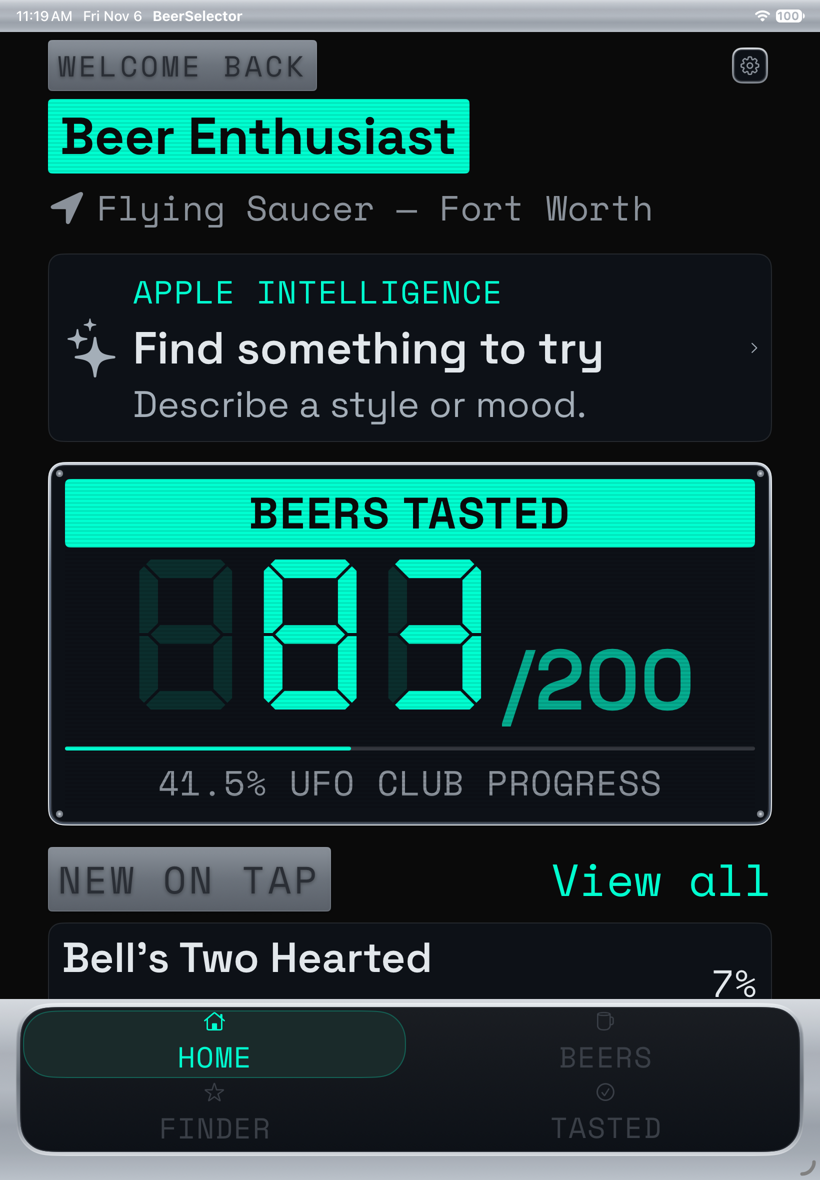
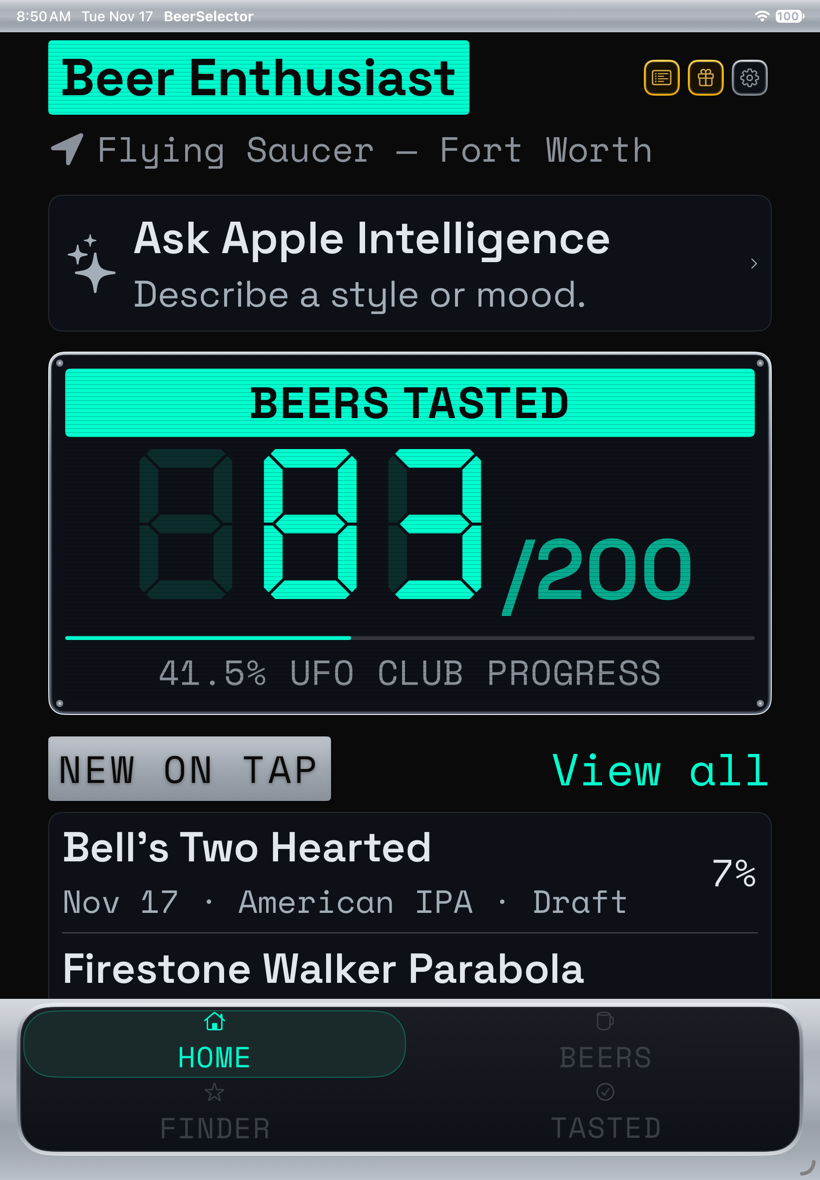
Document header actions and the new Home fit ladder

Changed region(s): [[0.0305, 0.0, 0.9451, 0.8542], [0.7927, 0.0305, 0.9451, 0.0915], [0.8537, 0.8237, 0.9146, 0.8542]]

diff --git a/native-ios/Docs/CHROME.md b/native-ios/Docs/CHROME.md
@@ -41,8 +41,8 @@ The polish followed `plans/ui-polish.md` and the approved mocks in `/Users/pete/
 2. **One content-card style.** Beer rows, reward rows, queue rows, operations, Settings groups, recommendation cards and Home panels all use `.contentCard()`. The Rewards milestone bevel is always steel; the full teal fill is the only "reached" signal.
 3. **Teal means interactive or active.** Beer names, reward titles and ABV values are off-white. Teal stays on title plates, the selected segment, the sort control, action buttons, the active tab, links and status words such as AVAILABLE. Amber marks Queue, Rewards and Check In.
 4. **Mono for data, Grotesk for prose.** Space Mono for ABV, dates, counts, style · container lines and label plates. Space Grotesk Regular for descriptions, brewer names, row subtitles and explanations.
-5. **The filter row only filters.** ALL / DRAFT / CANS & BOTTLES segments plus one sort menu (Date, Name, ABV, each with a direction). Beerfinder's Queue and Rewards are amber icon buttons in the header.
-6. **iPhone Home doesn't repeat the tab bar.** The compact Home shows the header, the suggestion card, the metric panel, New on Tap and the Rewards card. The wide iPad Home keeps its panel layout.
+5. **The filter row only filters.** ALL / DRAFT / CANS & BOTTLES segments plus one sort menu (Date, Name, ABV, each with a direction). Queue and Rewards are amber icon buttons in the header of every tab (Home, All Beers, Beerfinder and Tasted Brews), for UFO Club members only; visitors and signed-out users see only the Settings gear. `HeaderActions` draws all three and makes the membership check.
+6. **iPhone Home doesn't repeat the tab bar.** The compact Home shows the header, the suggestion card, the metric panel and New on Tap. It has no Rewards card (removed 2026-11-17): Rewards opens from the header, and the Rewards sheet reports how many are ready and any loading error. The wide iPad Home keeps its panel layout.
 
 ### Tokens
 
@@ -53,14 +53,24 @@ The polish followed `plans/ui-polish.md` and the approved mocks in `/Users/pete/
 | `Robo.hairline` | white at 10% | The 1pt edge of a content card and row dividers |
 | `Robo.body(_:)` | Space Grotesk Regular | Prose |
 | `.contentCard()` | `Robo.display`, 14pt radius, hairline edge | Every content card |
-| `AmberWell` / `AmberIcon` | amber chrome well, `#D4AB50` glyph | Queue and Rewards buttons, the Home Rewards card |
+| `AmberWell` / `AmberIcon` | amber chrome well, `#D4AB50` glyph | The Queue and Rewards header buttons |
 
 ### Decisions
 
 - The BeerIcons glyphs stay. Restyling may change the wells and rings around them, never the glyphs.
 - Every suggestion surface names its source. The Home card is titled Ask Apple Intelligence or Local matching; the sheet shows a mode plate. A fallback from Apple Intelligence shows a notice above the results.
 - New on Tap shows the newest beers on the taplist by added date, tasted or not, as compact rows (name, then arrival day · style · container, then ABV). Tapping a row shows its description.
-- The compact Home prefers to fit its screen without scrolling: roomy spacing, then tight spacing, then one New on Tap row. With the suggestion card showing, the iPhone test sizes from 16e to 18 Pro Max show two rows at the default text size; `UITests/home-fits.yaml` checks this. It scrolls while a shown description is open (keeping the rows it had), at accessibility text sizes (always with two rows), and as a last resort when even one row doesn't fit, such as a short landscape window or long banners. `CompactHomeMode` decides this and ignores an expansion for a beer Home isn't showing.
+- The compact Home prefers to fit its screen without scrolling. `CompactHomeFit.ladder` is tried in order: four New on Tap rows at roomy spacing, three at roomy, three at tight, two at tight, one at tight. Three rows are the target, so spacing tightens to keep them; a fourth shows only where it fits at roomy spacing. The row count therefore varies with the phone, the suggestion card and the header (measured 2026-11-17 at the default text size, member Home):
+
+  | | Suggestion card showing | Suggestions off |
+  |---|---|---|
+  | 16e, header on one line | 3 | 4 |
+  | 16e, header wrapped | 2 | 3 |
+  | 18 Pro (402pt wide) | 3 | 4 |
+  | 18 Pro Max | 4 | 4 |
+
+  `UITests/home-fits.yaml` checks for at least three rows with the card and `UITests/home-compact.yaml` for four without it. Home scrolls while a shown description is open (keeping the rows it had), at accessibility text sizes (always with three rows), and as a last resort when even one row doesn't fit, such as a short landscape window or long banners. `CompactHomeMode` decides this and ignores an expansion for a beer Home isn't showing.
+- Home's header wraps like the list headers (C1): when the member name and the three buttons don't fit on one line, the buttons move below the name. That costs 52pt, about one New on Tap row. On the 16e (390pt wide) the fallback name "Beer Enthusiast", which the fixtures also use, misses one line by about 4pt, so both flows above fail there with the default fixture and pass with a shorter name. Whether to keep that is an open decision for Pete.
 - On narrow iPhones the sort chip shortens to the direction (NEW, A-Z, HIGH) and then to its icon, so the filter row stays on one line through XXXL.
 
 ### Accepted differences from the mocks
@@ -70,7 +80,7 @@ These were reviewed against the approved PNGs in Phase E and kept:
 - The segments are separate chrome buttons rather than one joined control. The user approved this on device.
 - The sort chip reads NEW, not DATE · NEW, on 402pt-wide iPhones, because the full label doesn't fit beside CANS & BOTTLES.
 - The Queue icon is `list.bullet.rectangle` (SF Symbols), and the beer wells keep the BeerIcons glyphs where the mocks use Lucide stand-ins.
-- Home drops the mock's WELCOME BACK plate and the suggestion card's APPLE INTELLIGENCE eyebrow, so two New on Tap rows fit under the real tab bar. The Settings gear sits beside the member name.
+- Home drops the mock's WELCOME BACK plate and the suggestion card's APPLE INTELLIGENCE eyebrow, so the New on Tap rows fit under the real tab bar. Queue, Rewards and the Settings gear sit beside the member name.
 - The suggestions sheet keeps the system navigation bar with Done and the native segmented ABV picker, and lays the style chips out in an adaptive grid (104pt minimum columns, 220pt at accessibility sizes), where the mock draws a custom close button and flowing chips. When results arrive, the sheet scrolls to a count header ("3 suggestions") above the cards, or to the fallback notice, with a success haptic and a VoiceOver announcement; while it works, the Find button shows a spinner in place.
 - The redeemed-reward chevron and the card chevrons are neutral grey.
 - Label plates (NEW ON TAP and the rest) keep the steel plate from the mocks. Its dark text measures about 2.2–4.3:1 across the gradient, below 4.5:1; changing it is an open design decision, not part of this polish.

diff --git a/native-ios/Docs/WORK-CHECKPOINT.md b/native-ios/Docs/WORK-CHECKPOINT.md
@@ -1,3 +1,19 @@
+## Queue and Rewards in every header, three or four New on Tap rows — November 17, 2026
+
+Plan: `plans/header-actions-and-three-new-rows.md`. Pete asked for all three changes on November 17.
+
+- `HeaderActions` draws Queue, Rewards and Settings in the header of Home, All Beers, Beerfinder and Tasted Brews. Queue and Rewards show only for members; the check is inside the view. The gear is `settings-nav-button` on every tab.
+- Losing membership (sign-out, or switching to visitor mode) closes an open Queue, Rewards or missed-credit sheet. Signing in again as a member leaves open sheets alone, as before.
+- The compact Home has no Rewards card. `HomeRewardsCard` and `RewardsCardStatus` are deleted; the Rewards sheet reports the count and any error.
+- New on Tap follows `CompactHomeFit.ladder`: 4 rows roomy, 3 roomy, 3 tight, 2 tight, 1 tight, then scroll. Accessibility text scrolls with three rows. Measured row counts are in [CHROME.md](CHROME.md).
+- All plan: 489/489 passed, serial, on the "BeerSelector Tests" iPhone simulator.
+- Flows passed on the "BeerSelector Tests" iPhone (402pt wide): `header-actions`, `header-actions-visitor`, `header-actions-signed-out`, `header-queue-loading`, `finder-header-actions`, `rewards-unavailable`, `home-fits`, `home-compact`. `home-fits` and `home-compact` also passed on the 18 Pro Max.
+- **Open decision for Pete.** On the 16e the fixture and fallback name "Beer Enthusiast" misses fitting beside three buttons by about 4pt, so the header wraps and Home keeps 2 rows with the suggestion card and 3 without. `home-fits` and `home-compact` fail there with the default fixture. With a temporary, uncommitted shorter name ("Samantha") the 16e shows 3 and 4 rows and both flows pass.
+- Maestro's hierarchy includes the header buttons of hidden tabs, so an `assertVisible` on a shared ID can't tell tabs apart. The taps in `header-actions.yaml` are what prove each tab's own buttons work; the loading flow's per-tab assertions are weaker than they read.
+- Checked by eye on fixtures: all four tabs on the 16e (Tasted Brews shares a line with three buttons; Tasted mid-refresh and Beerfinder with the queue loading wrap or fit without overlap), Home in every suggestion mode and visitor mode on the 16e and 18 Pro Max, `--preview-banners` (steps down, no clipping), AX5 Home and All Beers on the 16e (Home scrolls with three rows; raising the text size on a four-row Home drops the fourth), iPad Home in portrait and landscape.
+- Not checked: signing out or switching to visitor mode by hand in a running member session (covered by unit tests only), an iPad window narrower than 768pt, VoiceOver, any physical device.
+- Not done: the `BeerSelectorNative.pen` design backup. The Pencil app wasn't running, so the file still shows the Rewards card and the old headers.
+
 ## Usage telemetry switched on — November 10, 2026
 
 The external beta build from #77 sends usage counts; it reached beta testers on November 10. Pete did steps 1 and 2 of USAGE-TELEMETRY.md → Switching it on: the App Store privacy details, and `UsageTelemetryEnabled` (string `true`) in the Xcode Cloud secret `BEERSELECTOR_SERVICE_CONFIGURATION_BASE64`. #77 added the What to Test note, which also covers #69 and #70.

diff --git a/native-ios/Docs/DEVICE-ACCESSIBILITY-CHECKS.md b/native-ios/Docs/DEVICE-ACCESSIBILITY-CHECKS.md
@@ -9,7 +9,8 @@ Deferred at the user's request on September 12: keep these checks silent and do 
 Enable VoiceOver in iOS Settings → Accessibility. Navigate by swiping left/right; activate with a double-tap.
 
 - Home: read the tasted count, move through navigation cards, open and close Settings. Confirm hidden beer tabs do not contribute off-screen focus targets.
-- Beerfinder: reach search, each filter, Queue and Rewards. Expand one beer; verify its name, container, ABV and expanded/collapsed state are understandable. Reach Check In without activating it. Confirm decorative glyphs are not spoken as stray characters.
+- Every tab (Home, All Beers, Beerfinder, Tasted Brews): reach Queue, Rewards and Settings in the header. They are announced once per tab, not once for each hidden tab.
+- Beerfinder: reach search and each filter. Expand one beer; verify its name, container, ABV and expanded/collapsed state are understandable. Reach Check In without activating it. Confirm decorative glyphs are not spoken as stray characters.
 - Rewards: read journey progress and milestones, open an available reward, then choose Cancel. Both choices must be discoverable. Do not queue the reward for this check.
 - Settings: reach Refresh All Data and Prepare Diagnostic Report, then close the sheet. Check that focus returns somewhere useful, without trapping navigation.
 - Repeat key controls at the largest accessibility text size. Record the screen and exact missing/incorrect spoken label if anything fails.
